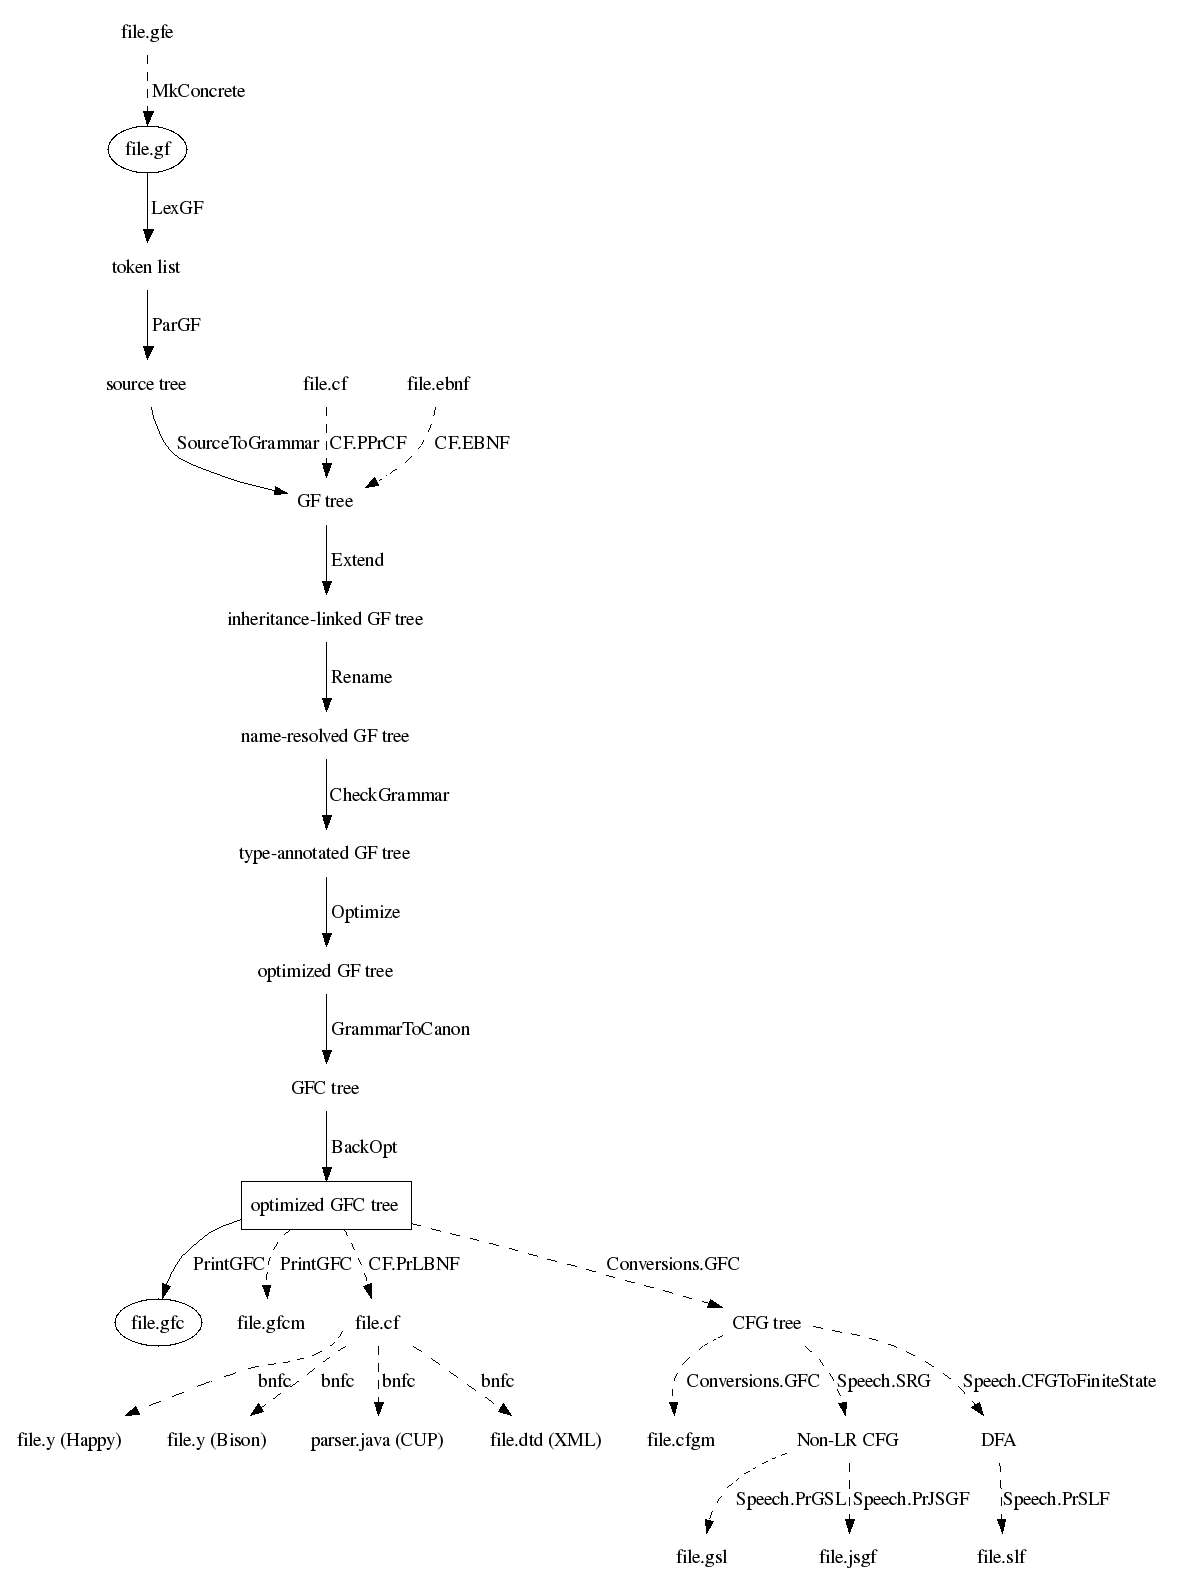
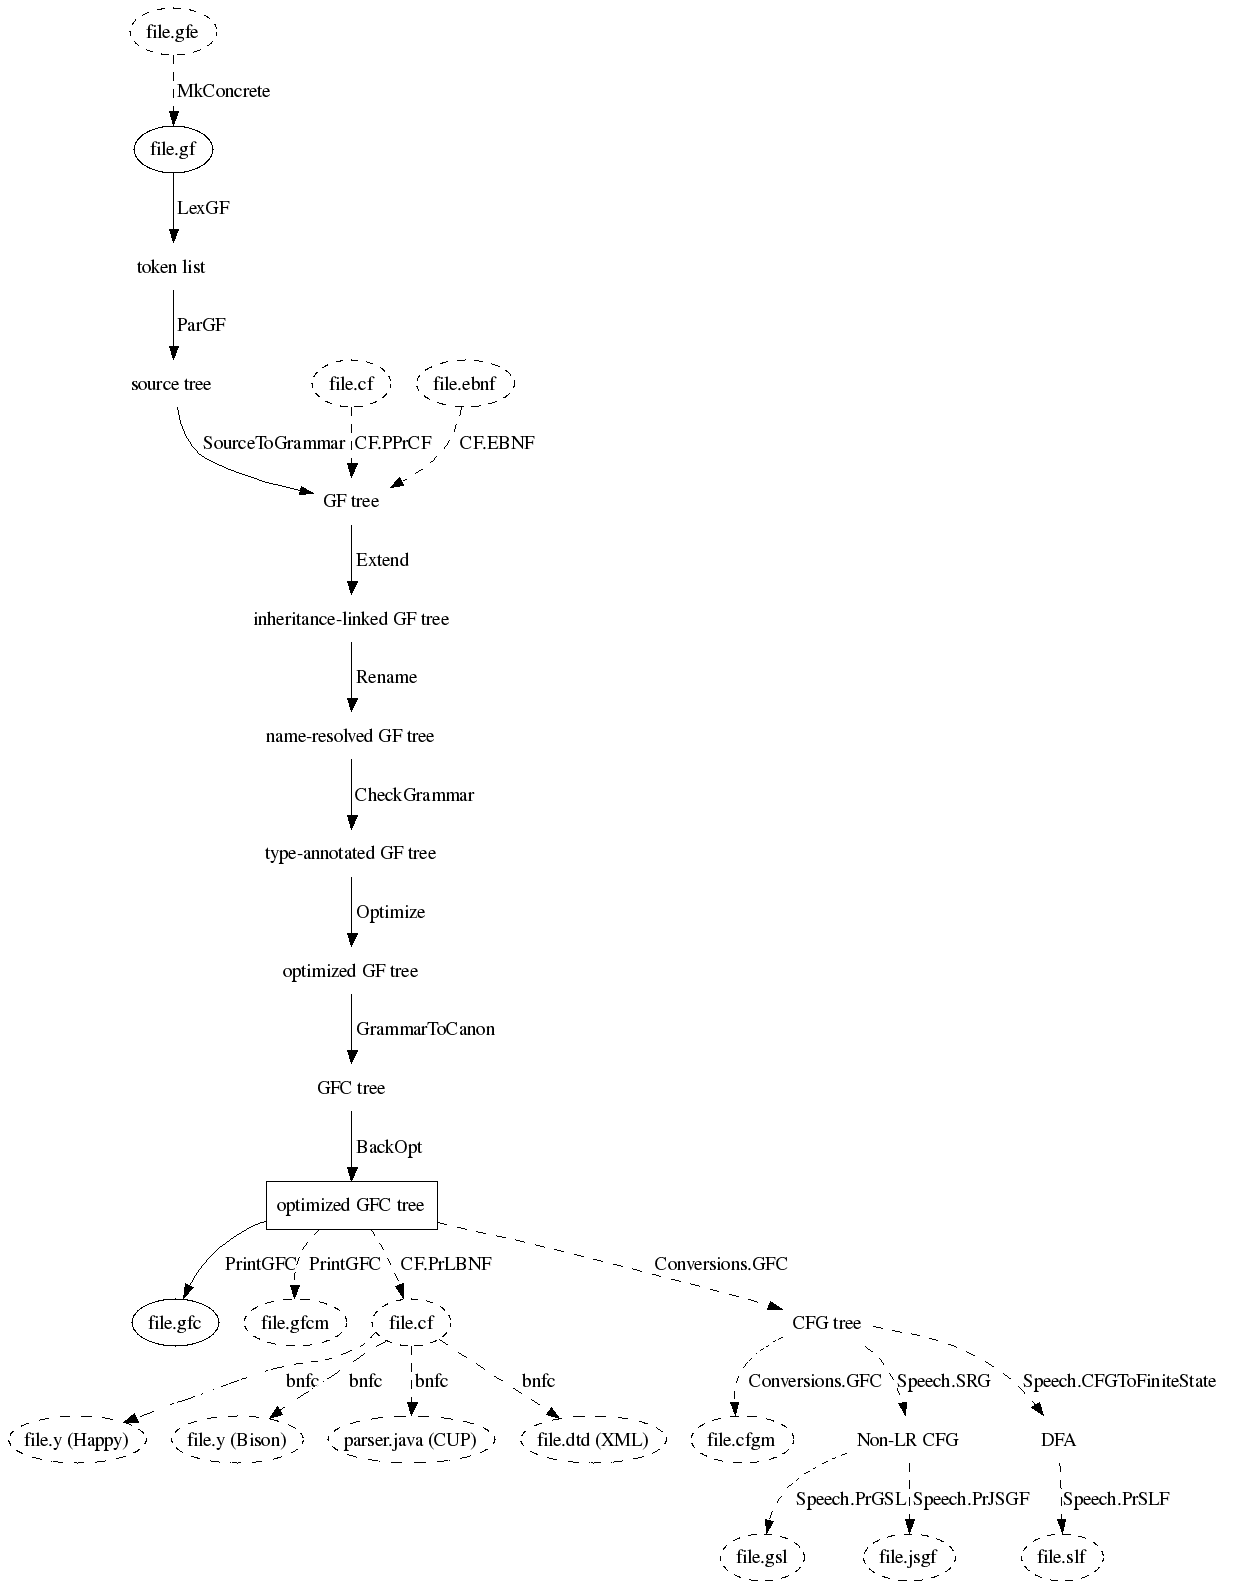
formats in index
darcs-hash:20051209132339-88a34-2a68b15dd1836e63b614209d6c928d48187aa802.gz

diff --git a/index.html b/index.html
@@ -162,16 +162,21 @@ various tasks with the grammars:
   </li><li> random and exhaustive generation
   </li><li> syntax editing
 </li></ul>
-GF particularly addresses two aspects of grammars:
+GF particularly addresses four aspects of grammars:
 <ul>
   <li> multilinguality (parallel grammars for different languages)
   </li><li> semantics (semantic conditions of well-formedness, semantic
        properties of expressions)
-</li></ul>
-GF Version 2.0 adds the aspect of
-<ul>
-<li> modularity and grammar engineering.
+  <li> modularity and grammar engineering
+  <li> reuse of grammars in different formats and as software components
 </ul>
+GF provides an easy way to experiment with grammars written in
+different formats, including the ubiquitous BNF and EBNF formats.
+The <a href="gf-compiler.png">GF compilation chart</a> gives a 
+summary of the supported input and output formats (the nodes in ellipses).
+
+<p>
+
 GF is open-source software licensed under 
 <a href="LICENSE">GNU General Public License (GPL)</a>.
 
